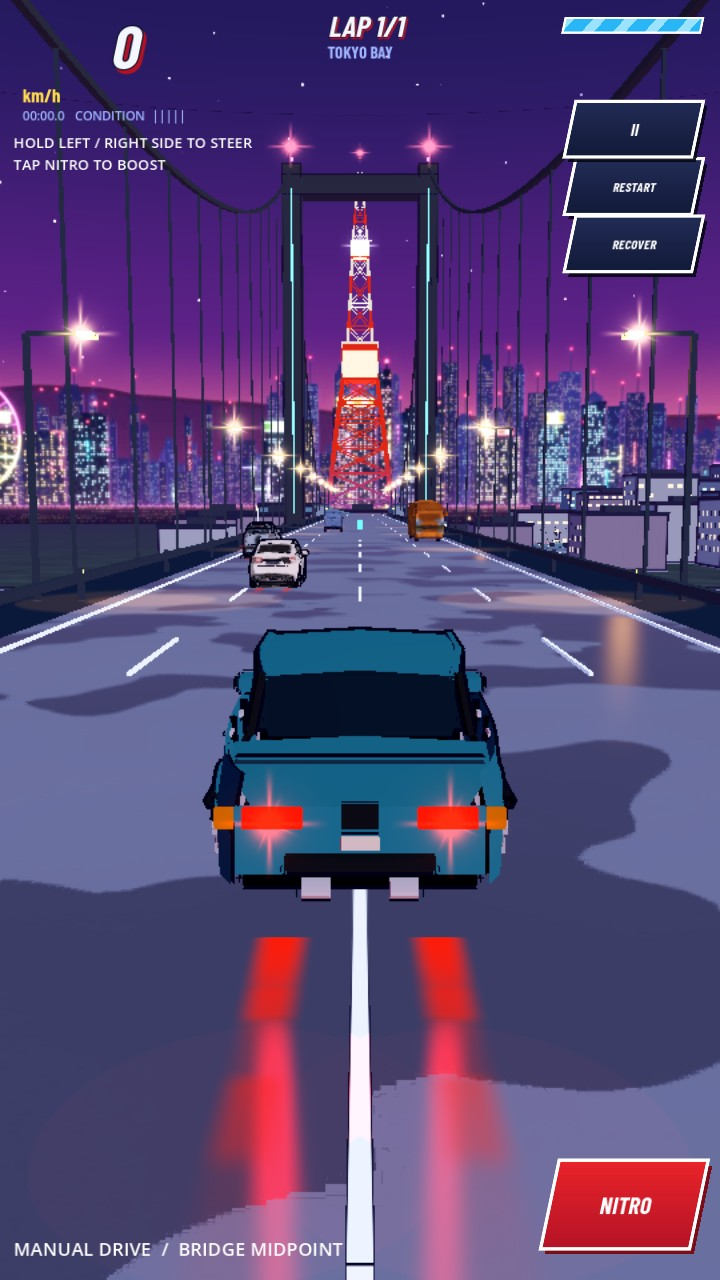
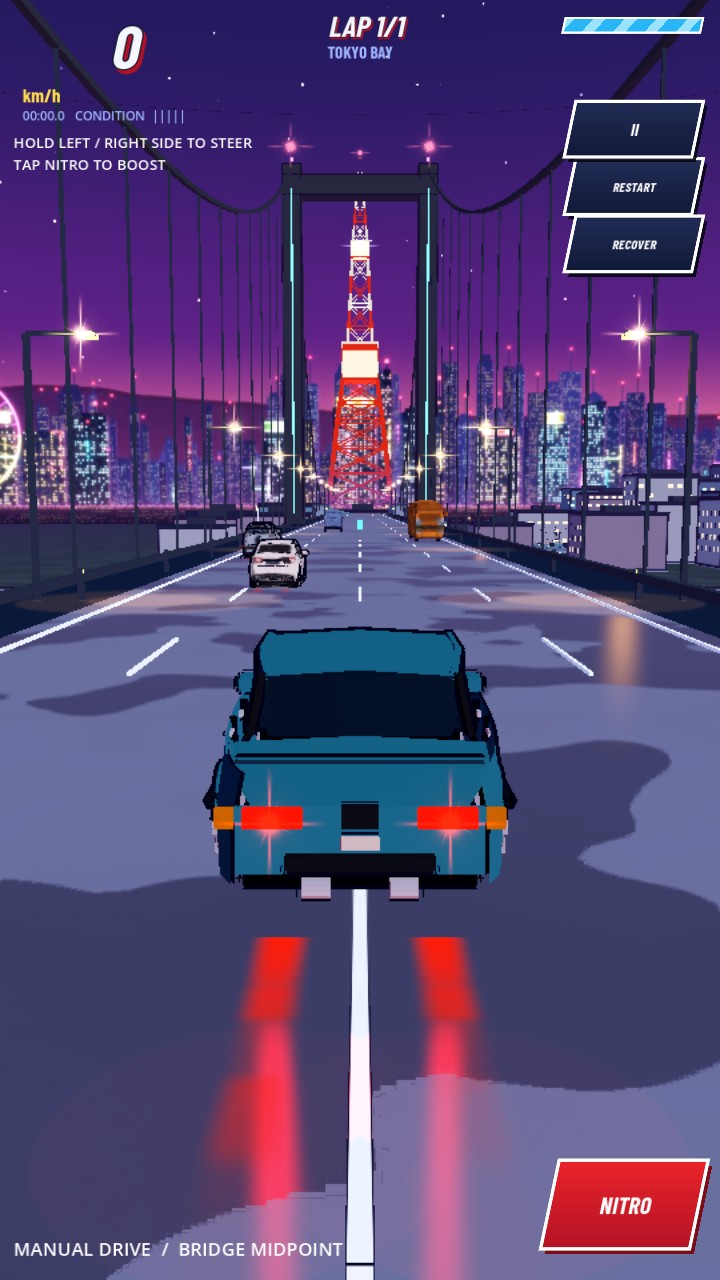
glowup: evidence for td-glowup source 1d698bc (+ Gemini consult record)
Claude-Session: https://claude.ai/code/session_01EAM6hZWtfGSLUm2bB8rEXK

diff --git a/qa/glowup/gemini-consult.md b/qa/glowup/gemini-consult.md
@@ -1,0 +1,96 @@
+# td-glowup — Gemini consult (brief section "Learn from the industry")
+
+Date: 2026-10-05 ~01:58Z. Model: `gemini-3.5-flash` via the generativelanguage API.
+The brief's `~/workspace/skills/gemini-consult/` is not present in this cloud
+container; `gemini-2.5-pro` is retired for new users and `gemini-3.1-pro-preview`
+exceeded the egress proxy's 30 s limit twice with four images, so the flash model
+was used with 540 px images. This consult ran late, after the main pass had been
+built from td-175's earlier Gemini fix order (`godot/qa/td-175/iteration-list.md`).
+
+Inputs: our AFTER frames `after/bridge_midpoint-portrait.jpg` and
+`after/commercial_arrival-portrait.jpg` (source 074cf53) beside the targets
+`night-bridge-driving.jpg` and `night-highway-driving.jpg`.
+
+## Question (summary)
+
+A) Which Spider-Verse / Borderlands / Kaido Genkai / NFS Unbound techniques survive
+Godot 4 Compatibility on mobile-class GPUs, and what are the cheapest fakes for those
+that don't? B) The 5 most visible remaining differences (ours vs target), ranked by
+impact per unit of work, each with a concrete cheap Compatibility-renderer fix (no
+fullscreen post, no SSR). Full prompt text: the request body is not committed (it
+embeds the images); the wording is reproduced in the A/B summary above.
+
+## Answer (verbatim)
+
+### A) Industry Techniques & Mobile GLES3 Adaptation
+
+#### 1. Spider-Verse (Line Work, Halftones, Stepped Frame Rate, Chromatic Aberration)
+*   **How they do it:** Screen-space Sobel/Laplacian filters for lines; screen-space light-attenuated halftone pattern projections; animating rigs on "twos" or "threes" (12/8 fps); screen-space multi-tap chromatic aberration.
+*   **Mobile GLES3 Survival:** **No.** Screen-space halftones and multi-tap aberration will tank fill rate on mid-range mobile GPUs.
+*   **Cheapest Fake:** 
+    *   *Halftones:* Bake the halftone pattern directly into the dark band of your Toon Shader’s 1D ramp texture.
+    *   *Stepped Frame Rate:* **Free.** Run a simple script on your `AnimationPlayer` or vertex shader that snaps the time variable or playback step: `floor(time * 12.0) / 12.0`.
+    *   *Chromatic Aberration:* Skip screen-space. Bake static red/cyan offsets directly into the UI textures and far-plane background cards.
+
+#### 2. Borderlands (Thick Outlines, Flat Fills, Hand-Painted Details)
+*   **How they do it:** Screen-space depth/normal edge detection post-process combined with highly detailed, hand-drawn PBR textures (cross-hatching in the Albedo and Detail maps).
+*   **Mobile GLES3 Survival:** **Partial.** The hand-painted textures survive perfectly (texture memory is cheap); the screen-space outline post-pass does not.
+*   **Cheapest Fake:** Keep your current inverted-hull approach for dynamic cars. For static environment assets (buildings, barriers), completely eliminate runtime outlines. Instead, **bake all interior ink lines, window frames, and cross-hatching directly into the Albedo textures**.
+
+#### 3. Kaido Genkai / Inertial Drift (Anime Drift, Night Neon, Stylized Smoke)
+*   **How they do it:** Heavy HDR bloom passes, custom camera-aligned vertex-sheared smoke meshes, and custom road shaders calculating real-time anisotropic specular reflections.
+*   **Mobile GLES3 Survival:** **No.** True HDR bloom and complex real-time anisotropic calculations are too expensive for WebGL2/GLES3.
+*   **Cheapest Fake:**
+    *   *Neon Glow:* Place additive, unshaded, camera-facing billboard quads with soft-gradient textures over emissive sources (lamps, taillights).
+    *   *Stylized Smoke:* Use low-poly, unshaded, hand-painted 3D mesh "puffs" that scale up and fade out via vertex color alpha, avoiding alpha-sorting issues of dense particle systems.
+
+#### 4. NFS Unbound (Cel-Shaded Graffiti, 2D Elements in 3D)
+*   **How they do it:** 2D hand-drawn vector/sprite animations attached to 3D bone sockets, spawned dynamically based on physics events (drift angle, nitro).
+*   **Mobile GLES3 Survival:** **Yes.** This is highly performant.
+*   **Cheapest Fake:** Spawn simple unshaded quad meshes with 2D spritesheet flipbook animations at the car's wheel sockets when drift threshold is met. Keep texture sizes small ($256 \times 256$ sheets).
+
+---
+
+### B) Critique & 5 High-Impact Fixes (Image 1 vs 2, Image 3 vs 4)
+
+```
+Ranked by Visual Impact per Unit of Work (Highest to Lowest)
+```
+
+#### 1. Stylized Puddle Reflections (Road Surface)
+*   **Difference:** Image 1 has blurry, straight vertical streaks (Ward specular). Images 2 and 4 have highly stylized, hand-painted, horizontally-rippled red and yellow reflection shapes that perfectly match the puddle contours.
+*   **Cheap Fix:** Ditch complex real-time reflection shaders. Attach a flat, horizontal quad mesh hovering $1\text{cm}$ above the road directly to the rear of the player/NPC cars. Apply an unshaded, additive material to this quad with a hand-painted, rippled taillight reflection texture. Use a simple vertex shader to gently wave/jitter the vertices horizontally over time:
+    ```glsl
+    VERTEX.x += sin(TIME * 10.0 + VERTEX.y) * 0.05;
+    ```
+
+#### 2. Retro Anime Starburst Flares
+*   **Difference:** Image 1 uses soft, circular, fuzzy starbursts. Images 2 and 4 feature extremely sharp, 4-point and 8-point retro anime starbursts with long, thin vertical and horizontal spikes.
+*   **Cheap Fix:** Replace the current billboard textures on the streetlamps and Tokyo Tower with a high-contrast, hand-painted 8-point starburst texture. Set the material to **Unshaded, Additive, with Alpha Cutoff** to keep the edges razor-sharp without relying on expensive alpha blending.
+
+#### 3. Sky Depth & Layered Clouds
+*   **Difference:** Image 1's sky is a flat, empty purple-to-blue gradient. Image 4 features a rich indigo-to-orange horizon gradient layered with soft, flat-shaded, hand-painted dark clouds.
+*   **Cheap Fix:** Do not use a procedural sky. Use a low-resolution, hand-painted 2D Panorama Sky texture. To add parallax depth cheaply, place 2 or 3 flat, semi-transparent horizontal "cards" (quads) in the far distance with stylized cloud silhouettes painted on them, moving them slowly across the screen.
+
+#### 4. Bridge Suspension Cables
+*   **Difference:** Image 1 is missing the iconic diagonal suspension cables of the Rainbow Bridge, leaving the upper screen empty. Image 2 has clean, dark, hand-drawn diagonal cables draping from the towers.
+*   **Cheap Fix:** Do not model these as 3D cylinders. Place two flat, double-sided 2D planes running along the sides of the bridge. Apply an unshaded, alpha-tested texture of the diagonal cables with baked black ink outlines. This adds massive structural composition for virtually zero rendering cost.
+
+#### 5. Environment Linework & Foliage Style
+*   **Difference:** Image 3's buildings lack internal details, and the trees are generic low-poly 3D blobs. Image 4's buildings have dense, hand-drawn window grids, and the trees have distinct, illustrated anime silhouettes.
+*   **Cheap Fix:** 
+    *   *Buildings:* Re-author the building textures to include baked-in black window frames and panel lines directly in the Albedo map.
+    *   *Trees:* Replace the 3D tree meshes with flat, intersecting 2D "cross-billboard" cards featuring hand-illustrated retro anime trees with thick ink outlines. This simultaneously reduces primitive count and aligns perfectly with the 1980s cel aesthetic.
+
+## Evaluation — what was adopted
+
+| Gemini item | Verdict | Why / what was done |
+|---|---|---|
+| B1 reflections should follow puddle contours, broken horizontal ripples | **Adopted** | Taillight streaks sample the road's own puddle noise in world space: strong in wet patches, faint on dry asphalt, horizontal ripple gaps and a slow wobble. |
+| B2 sharper 4/8-point starbursts with long thin spikes | **Adopted** | Flare shader: tighter core, thinner/longer cardinal spikes, short diagonals, weaker halo. |
+| B3 clouds in the sky | Deferred | Only the night-street target has clouds; the hero bridge target is clear and starry. Follow-up. |
+| B4 "missing bridge cables" | Rejected (incorrect) | Main catenary cables and hangers exist; they are thin dark lines that vanish at the 540 px images sent. |
+| B5 tree blobs need ink | **Adopted (cheap form)** | Rim ink on the batched foliage spheres (view-angle silhouette darkening) instead of re-authoring trees as cards. |
+| B5 bake window frames into albedo | Already covered | Procedural fwidth edge ink already frames every window pane. |
+| A: Ward anisotropic "too expensive" | Rejected (measured) | The per-light Ward lobe on road sections measured within noise on llvmpipe (`profile-frame-cost.txt`). |
+| A: stepped frame rate, halftone in shadow band, NFS-style 2D drift sprites | Follow-up | Gameplay-feel changes outside the brief's visual priority list; logged for a later task. |
